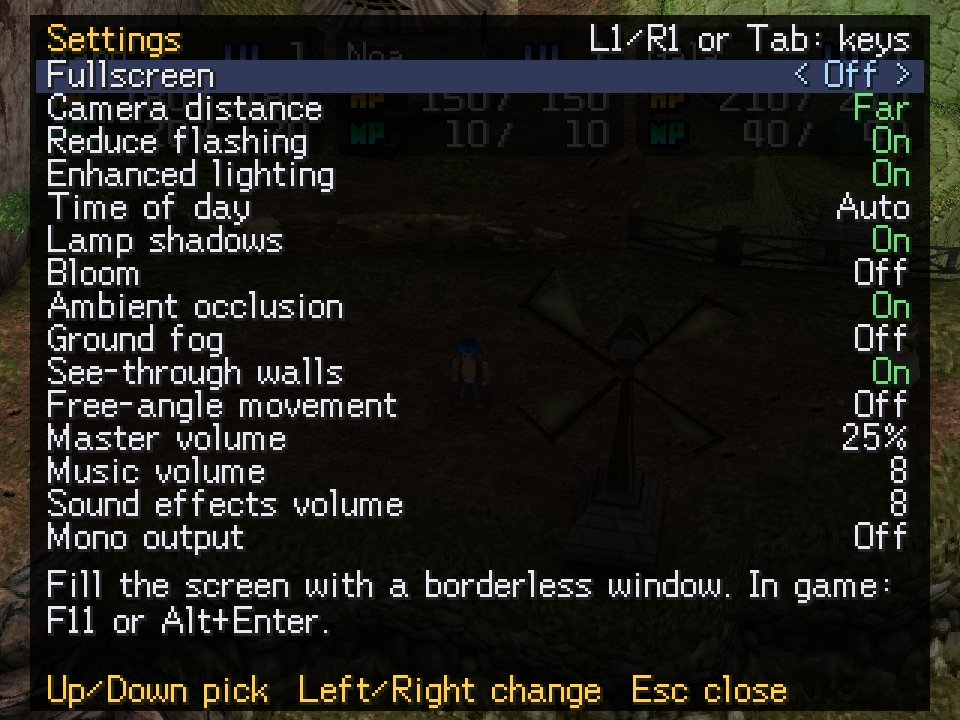
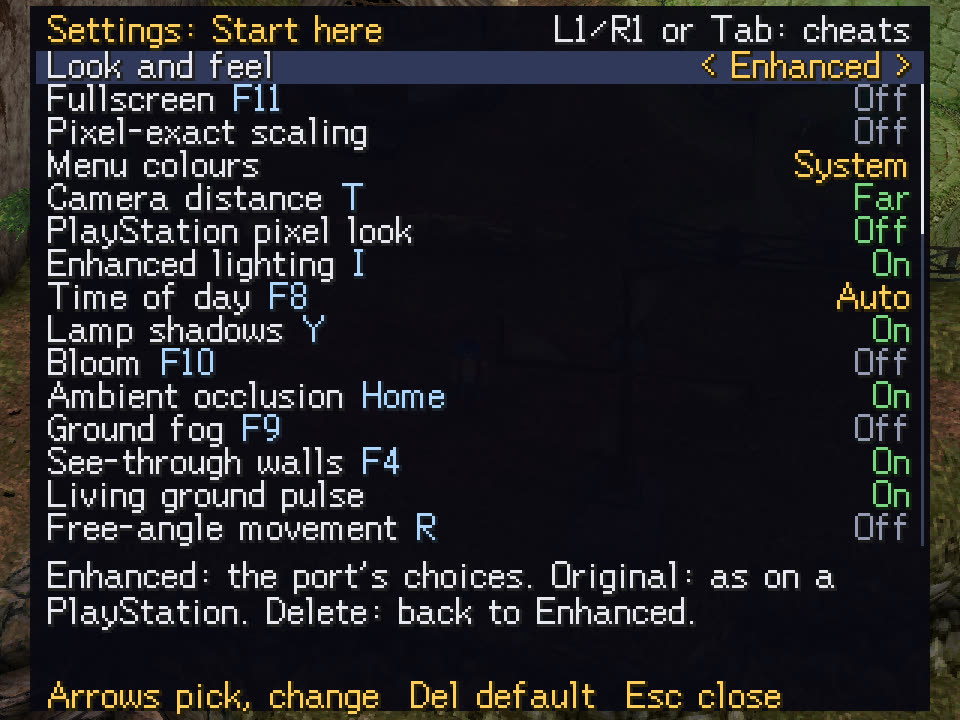
Guides: the F12 page opens on Look and feel and names each row's key

Changed region(s): [[0.0312, 0.0, 0.9688, 0.8861], [0.0312, 0.9167, 0.8438, 1.0]]

diff --git a/site/_content/guides/playing-and-viewing.html b/site/_content/guides/playing-and-viewing.html
@@ -179,7 +179,7 @@
     </tbody>
   </table>
   <p><strong>Screenshots.</strong> <kbd>Print Screen</kbd> saves the picture on screen as a PNG, menus and text included. The native window writes it into your pictures folder under <code>Legend of Legaia</code>, named for the scene and the time (<code>legaia-town01-1762750000.png</code>), and says where at the bottom left; the browser play page downloads the same picture under the same name. A desktop that keeps <kbd>Print Screen</kbd> for its own screenshot tool may not pass the key on.</p>
-  <p>In the native window each press shows the toggle's new state at the bottom left for a moment (<em>Ground fog: off</em>); holding a key toggles once, not repeatedly. A key that only acts while you walk around (<kbd>F3</kbd>, <kbd>T</kbd>, <kbd>R</kbd>, <kbd>End</kbd>) says so when pressed on the title screen or in a menu. <kbd>F12</kbd> (or <kbd>?</kbd>, wherever your keyboard layout puts it, or <kbd>Select</kbd> + <kbd>Start</kbd> on a controller) opens a panel and holds the game still. Its <strong>Settings</strong> page lists what the game reads live, in the launcher's words and the same options file: Up / Down pick a row, Left / Right change it, <kbd>Delete</kbd> puts it back on its default. It carries every launcher row but <em>Look and feel</em> and the window size: the PlayStation pixel look, the gameplay tweaks, the battle tuning and <em>Original game only</em> among them, each taking effect at once and remembered by the launcher for the next Play, as the play page remembers its boxes. <kbd>L1</kbd> / <kbd>R1</kbd> (<kbd>Tab</kbd>) flip to the <strong>Cheats</strong> page (<a href="#cheats">below</a>), then to the <strong>Scenes</strong> page - the play page&rsquo;s scene list, opened on the scene you stand in: Up / Down pick a town, field area or overworld, Left / Right move a page, Cross or <kbd>Enter</kbd> goes there with your party and bag, staged as the play page stages a picked scene (it refuses on the title, in a menu, a fight, a movie or a minigame, and says why) - then to the <strong>Keys</strong> page: every toggle key with its current state, <kbd>F11</kbd> fullscreen among them, the key each pad button is on (Cross, Circle, Start, ...) and the mouse's camera controls. <kbd>Esc</kbd>, <kbd>F12</kbd>, Circle or Start close it. A state the original game does not have is drawn green (<em>Enhanced lighting: on</em>), with the same marking and the same original values as the launcher&rsquo;s option list.</p>
+  <p>In the native window each press shows the toggle's new state at the bottom left for a moment (<em>Ground fog: off</em>); holding a key toggles once, not repeatedly. A key that only acts while you walk around (<kbd>F3</kbd>, <kbd>T</kbd>, <kbd>R</kbd>, <kbd>End</kbd>) says so when pressed on the title screen or in a menu. <kbd>F12</kbd> (or <kbd>?</kbd>, wherever your keyboard layout puts it, or <kbd>Select</kbd> + <kbd>Start</kbd> on a controller) opens a panel and holds the game still. Its <strong>Settings</strong> page lists what the game reads live, in the launcher's words and the same options file: Up / Down pick a row, Left / Right change it, <kbd>Delete</kbd> puts it back on its default. It carries every launcher row but the window size: the PlayStation pixel look, the gameplay tweaks, the battle tuning and <em>Original game only</em> among them, each taking effect at once and remembered by the launcher for the next Play, as the play page remembers its boxes. It opens on <em>Look and feel</em>, so one Right press switches to the original game and the next switches back; <kbd>Delete</kbd> there puts every enhancement back on its first-start value. A row with a key of its own names the key after its label (<em>Ground fog F9</em>). <kbd>L1</kbd> / <kbd>R1</kbd> (<kbd>Tab</kbd>) flip to the <strong>Cheats</strong> page (<a href="#cheats">below</a>), then to the <strong>Scenes</strong> page - the play page&rsquo;s scene list, opened on the scene you stand in: Up / Down pick a town, field area or overworld, Left / Right move a page, Cross or <kbd>Enter</kbd> goes there with your party and bag, staged as the play page stages a picked scene (it refuses on the title, in a menu, a fight, a movie or a minigame, and says why) - then to the <strong>Keys</strong> page: every toggle key with its current state, <kbd>F11</kbd> fullscreen among them, the key each pad button is on (Cross, Circle, Start, ...) and the mouse's camera controls. <kbd>Esc</kbd>, <kbd>F12</kbd>, Circle or Start close it. A state the original game does not have is drawn green (<em>Enhanced lighting: on</em>), with the same marking and the same original values as the launcher&rsquo;s option list.</p>
   <p>The browser play page answers the same keys with the canvas focused. Its presentation toggles sit in one <strong>Visual enhancements</strong> panel under the canvas: each row names its key, says in a line what it does and whether it is a port enhancement or part of the PS1's own drawing, and the panel carries the Retail-faithful switch and a <strong>Reset to defaults</strong> button.</p>
   <p><code>--retail</code> starts a session with every enhancement off and the remembered engine-only options (camera distance, movement mode, the photosensitivity guard) at their retail values, writing nothing back to the options file - the one switch for a retail-faithful run. It also pins the engine's own deviations to retail: the ledge-hop landing guard, smart monsters, overworld markers and the saved-chain Arts list go off and the battle kernels run retail's. The browser play page's <strong>Retail-faithful</strong> switch applies the same pin.</p>
   <p class="hint">Window toggles and pad bindings cannot collide: a window key is handled <em>before</em> the pad lookup, so one parked on a bindable key would delete that button from the keyboard. Every toggle therefore lives on an F-key, <kbd>Home</kbd> / <kbd>End</kbd> or a letter outside the bindable vocabulary (the key table above plus <kbd>C</kbd>, <kbd>V</kbd>, <kbd>D</kbd>, <kbd>E</kbd>).</p>

diff --git a/site/_content/guides/desktop-apps.html b/site/_content/guides/desktop-apps.html
@@ -261,8 +261,8 @@
     <figcaption>The panel&rsquo;s pages. <em>Tools</em> holds the session-only debug switches (developer menu, diagnostics, debug camera, auto-battle, battle cadence, overworld markers, effect outlines), one press for each minigame, the game-mode picker and the card menu, the party, fight-music, teach-a-spell and GameShark-file controls, and <em>Start a battle here</em>, which arms the scene's first encounter formation through the normal transition. <em>Scenes</em> takes your party and bag to the picked scene, seated as the play page seats a picked scene; it refuses on the title, in a menu, a fight, a movie or a minigame, and says why.</figcaption>
   </figure>
   <figure class="screenshot">
-    <img src="../img/desktop/port-settings.jpg" width="960" height="720" alt="The F12 panel over a dimmed town on its Settings page: fullscreen, camera distance, reduce flashing, the lighting rows, fog, see-through walls, free-angle movement and the volumes, with the focused row's help below" loading="lazy">
-    <figcaption>The settings page, the panel's first: Up / Down pick a row, Left / Right change it and <kbd>Delete</kbd> puts it back on its default, with the game held still and the change showing behind the panel at once. It writes the same <code>legaia-options.toml</code> as the launcher. It carries every launcher row but <em>Look and feel</em> and the window size, the gameplay tweaks and battle tuning among them, under a heading naming the row's group; the launcher's own rows change the game live too, and the launcher remembers them for the next Play.</figcaption>
+    <img src="../img/desktop/port-settings.jpg" width="960" height="720" alt="The F12 panel over a dimmed town on its Settings page: Look and feel focused on Enhanced, then fullscreen, camera distance, the PlayStation pixel look, the lighting rows, bloom, ambient occlusion, fog, see-through walls and free-angle movement, each toggle with its key after its label, and the focused row's help below" loading="lazy">
+    <figcaption>The settings page, the panel's first: Up / Down pick a row, Left / Right change it and <kbd>Delete</kbd> puts it back on its default, with the game held still and the change showing behind the panel at once. It writes the same <code>legaia-options.toml</code> as the launcher. It carries every launcher row but the window size, the gameplay tweaks and battle tuning among them, under a heading naming the row's group, and each row with a key of its own names the key after its label. Its first row is <em>Look and feel</em>: one Right press plays the original game, the next gives your mix back, and <kbd>Delete</kbd> returns to <em>Enhanced</em>; the launcher's own rows change the game live too, and the launcher remembers them for the next Play.</figcaption>
   </figure>
   <figure class="screenshot">
     <img src="../img/desktop/port-help.jpg" width="960" height="720" alt="The F12 panel over a dimmed town on its Keys page: every toggle key with its current state, with the states the original game does not have in green, then the pad key bindings and the mouse controls" loading="lazy">

diff --git a/docs/guides/playing-and-viewing.md b/docs/guides/playing-and-viewing.md
@@ -453,9 +453,14 @@ around (`F3`, `T`, `R`, `End`) says so when pressed on the title screen or in a 
 which with `L1` and `R1` also held stays the original game's soft reset. The
 game holds still under it, and the field party readout, which the panel's
 plate covers, is not drawn until it closes. Its first page, **Settings**, lists what the game
-reads live: every launcher row but *Look and feel* and the window size, in the
-launcher's order and words - the display and enhancement rows, the play rows,
-the gameplay tweaks, the battle tuning, the volumes and *Original game only*.
+reads live: every launcher row but the window size, in the launcher's order
+and words - *Look and feel* first, then the display and enhancement rows, the
+play rows, the gameplay tweaks, the battle tuning, the volumes and *Original
+game only*. The panel opens on *Look and feel*, so one Right press plays the
+original game (*Original game only* with the PlayStation pixel look) and the
+next gives the mix back; `Delete` on it puts every row it speaks for back on
+*Enhanced*. A row with a window key letters the key after its label (*Ground
+fog F9*, *Enhanced lighting I*), dimmed while the original game holds the row.
 The heading names the launcher group the focused row is in (*Settings: Battle
 tuning*). Up / Down pick a row and Left / Right (Cross, or `Enter`) change it,
 `Delete` puts it back on its default as on the launcher, with the row's help
